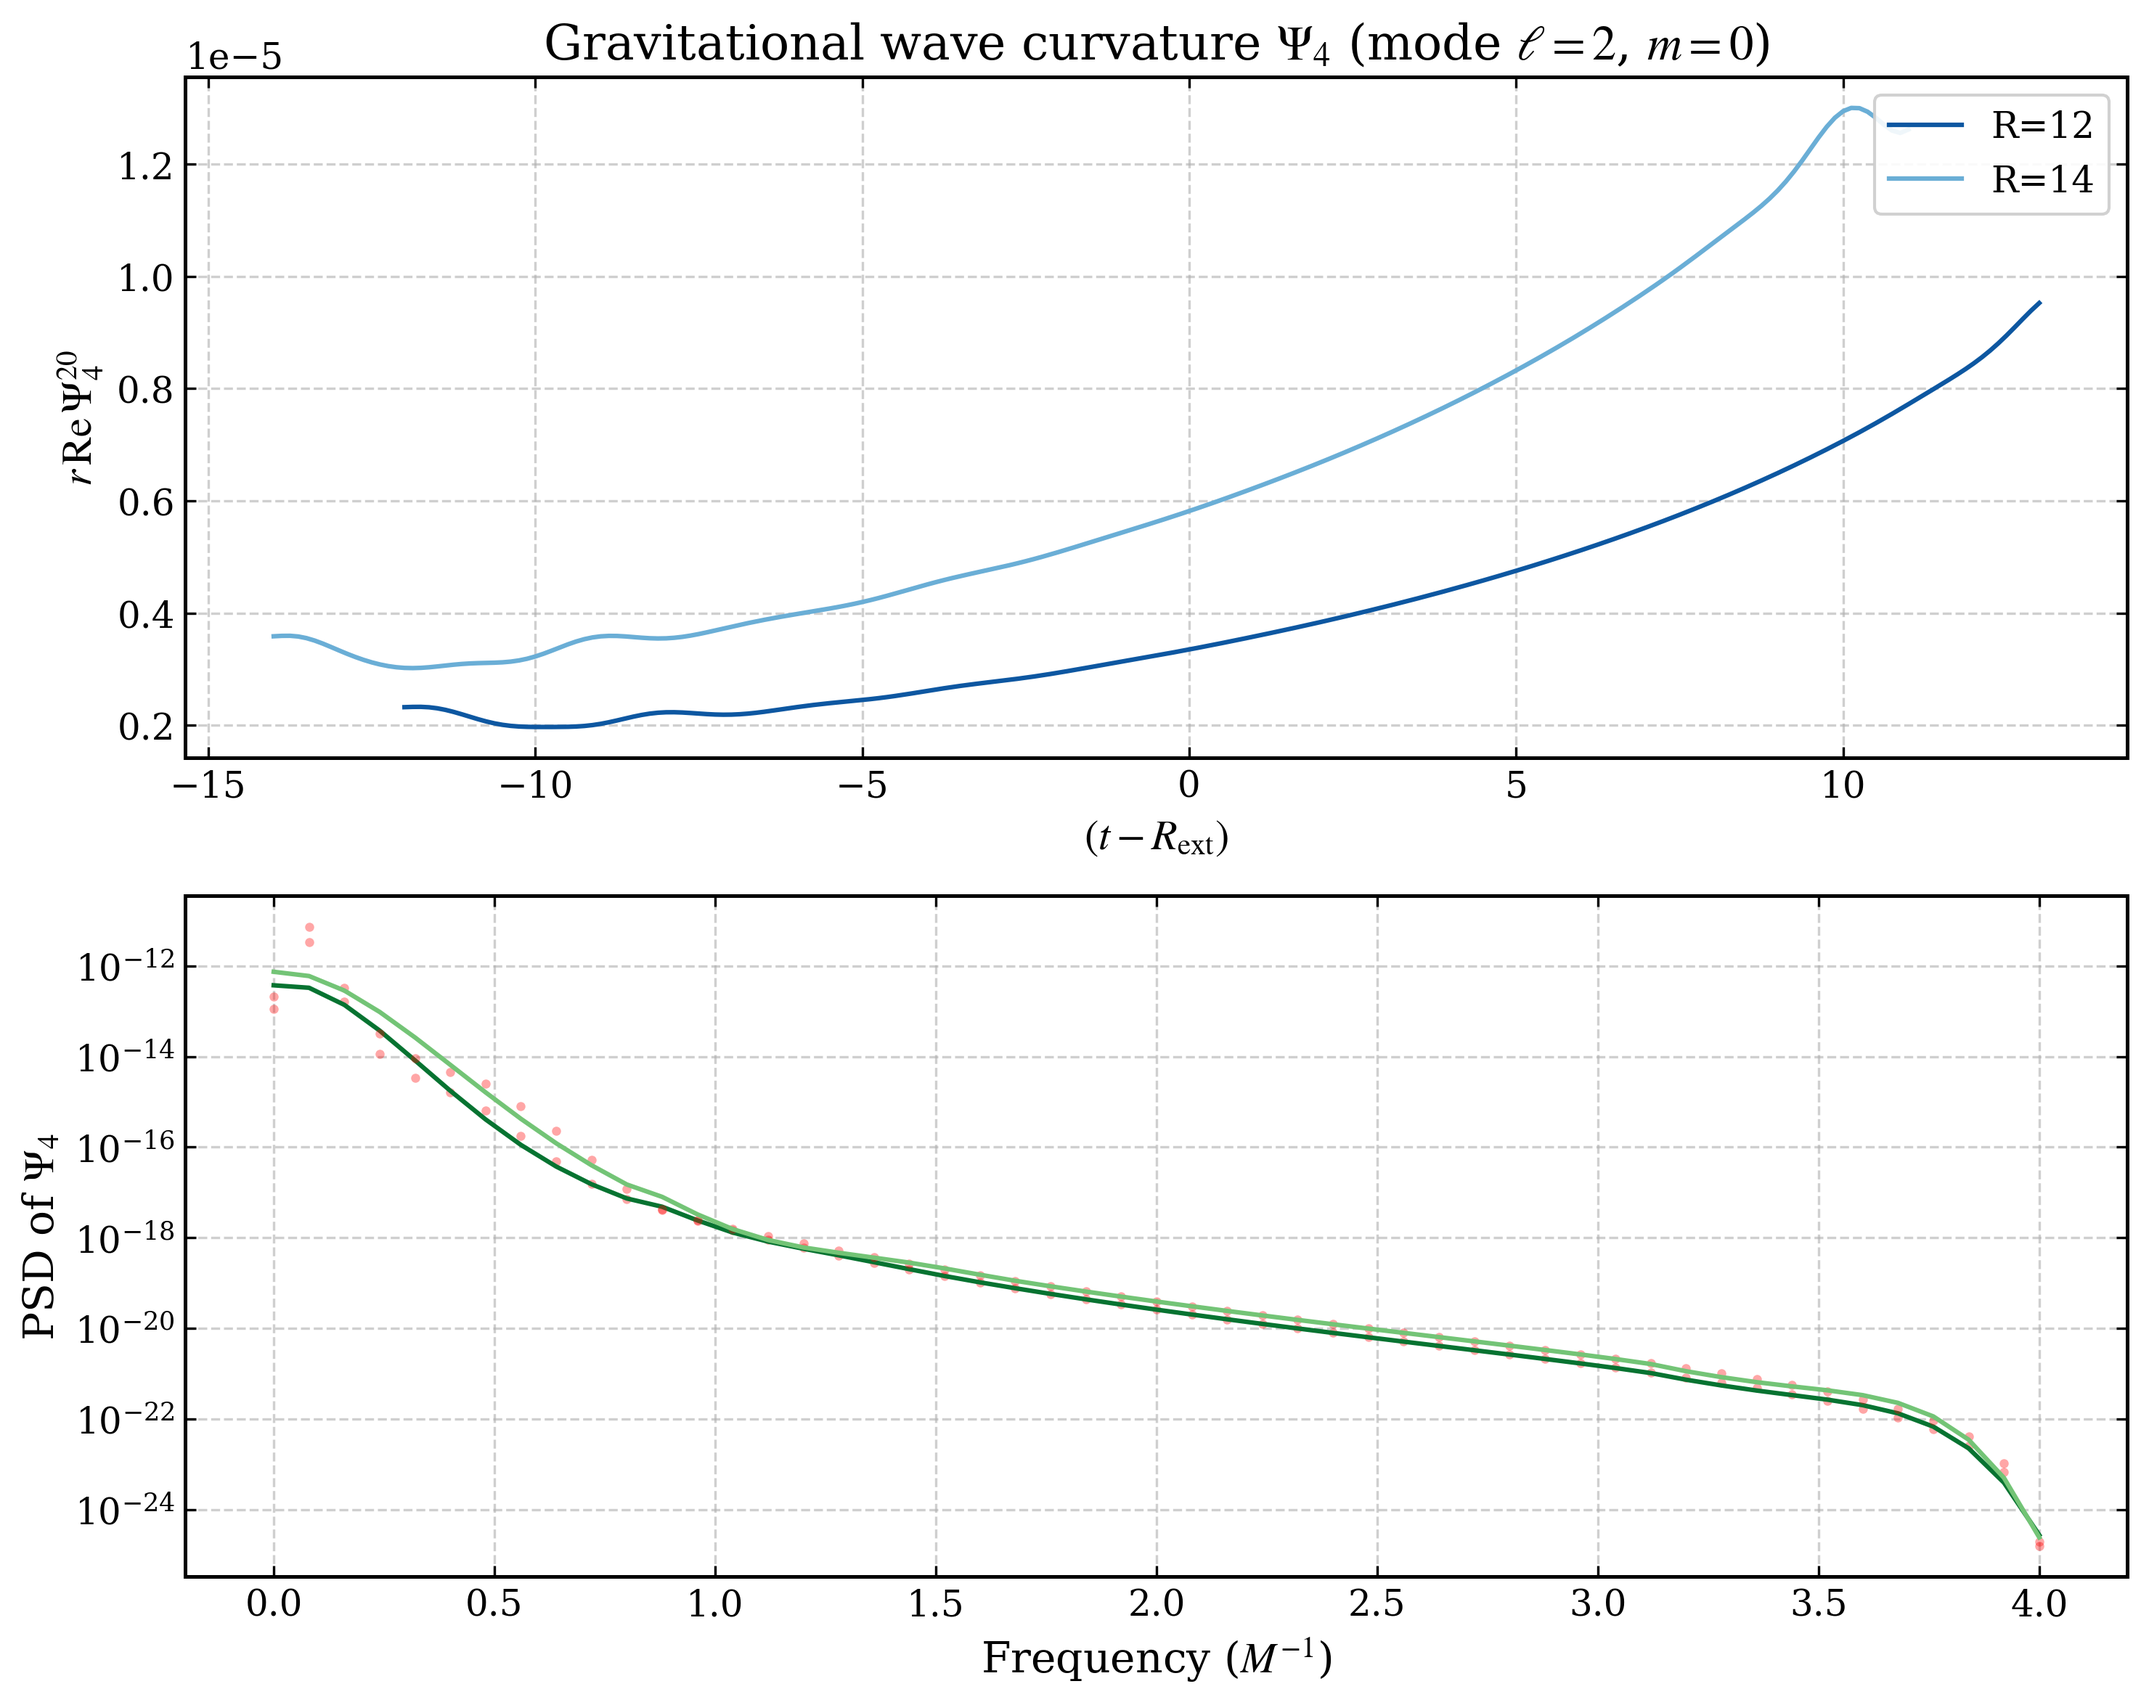
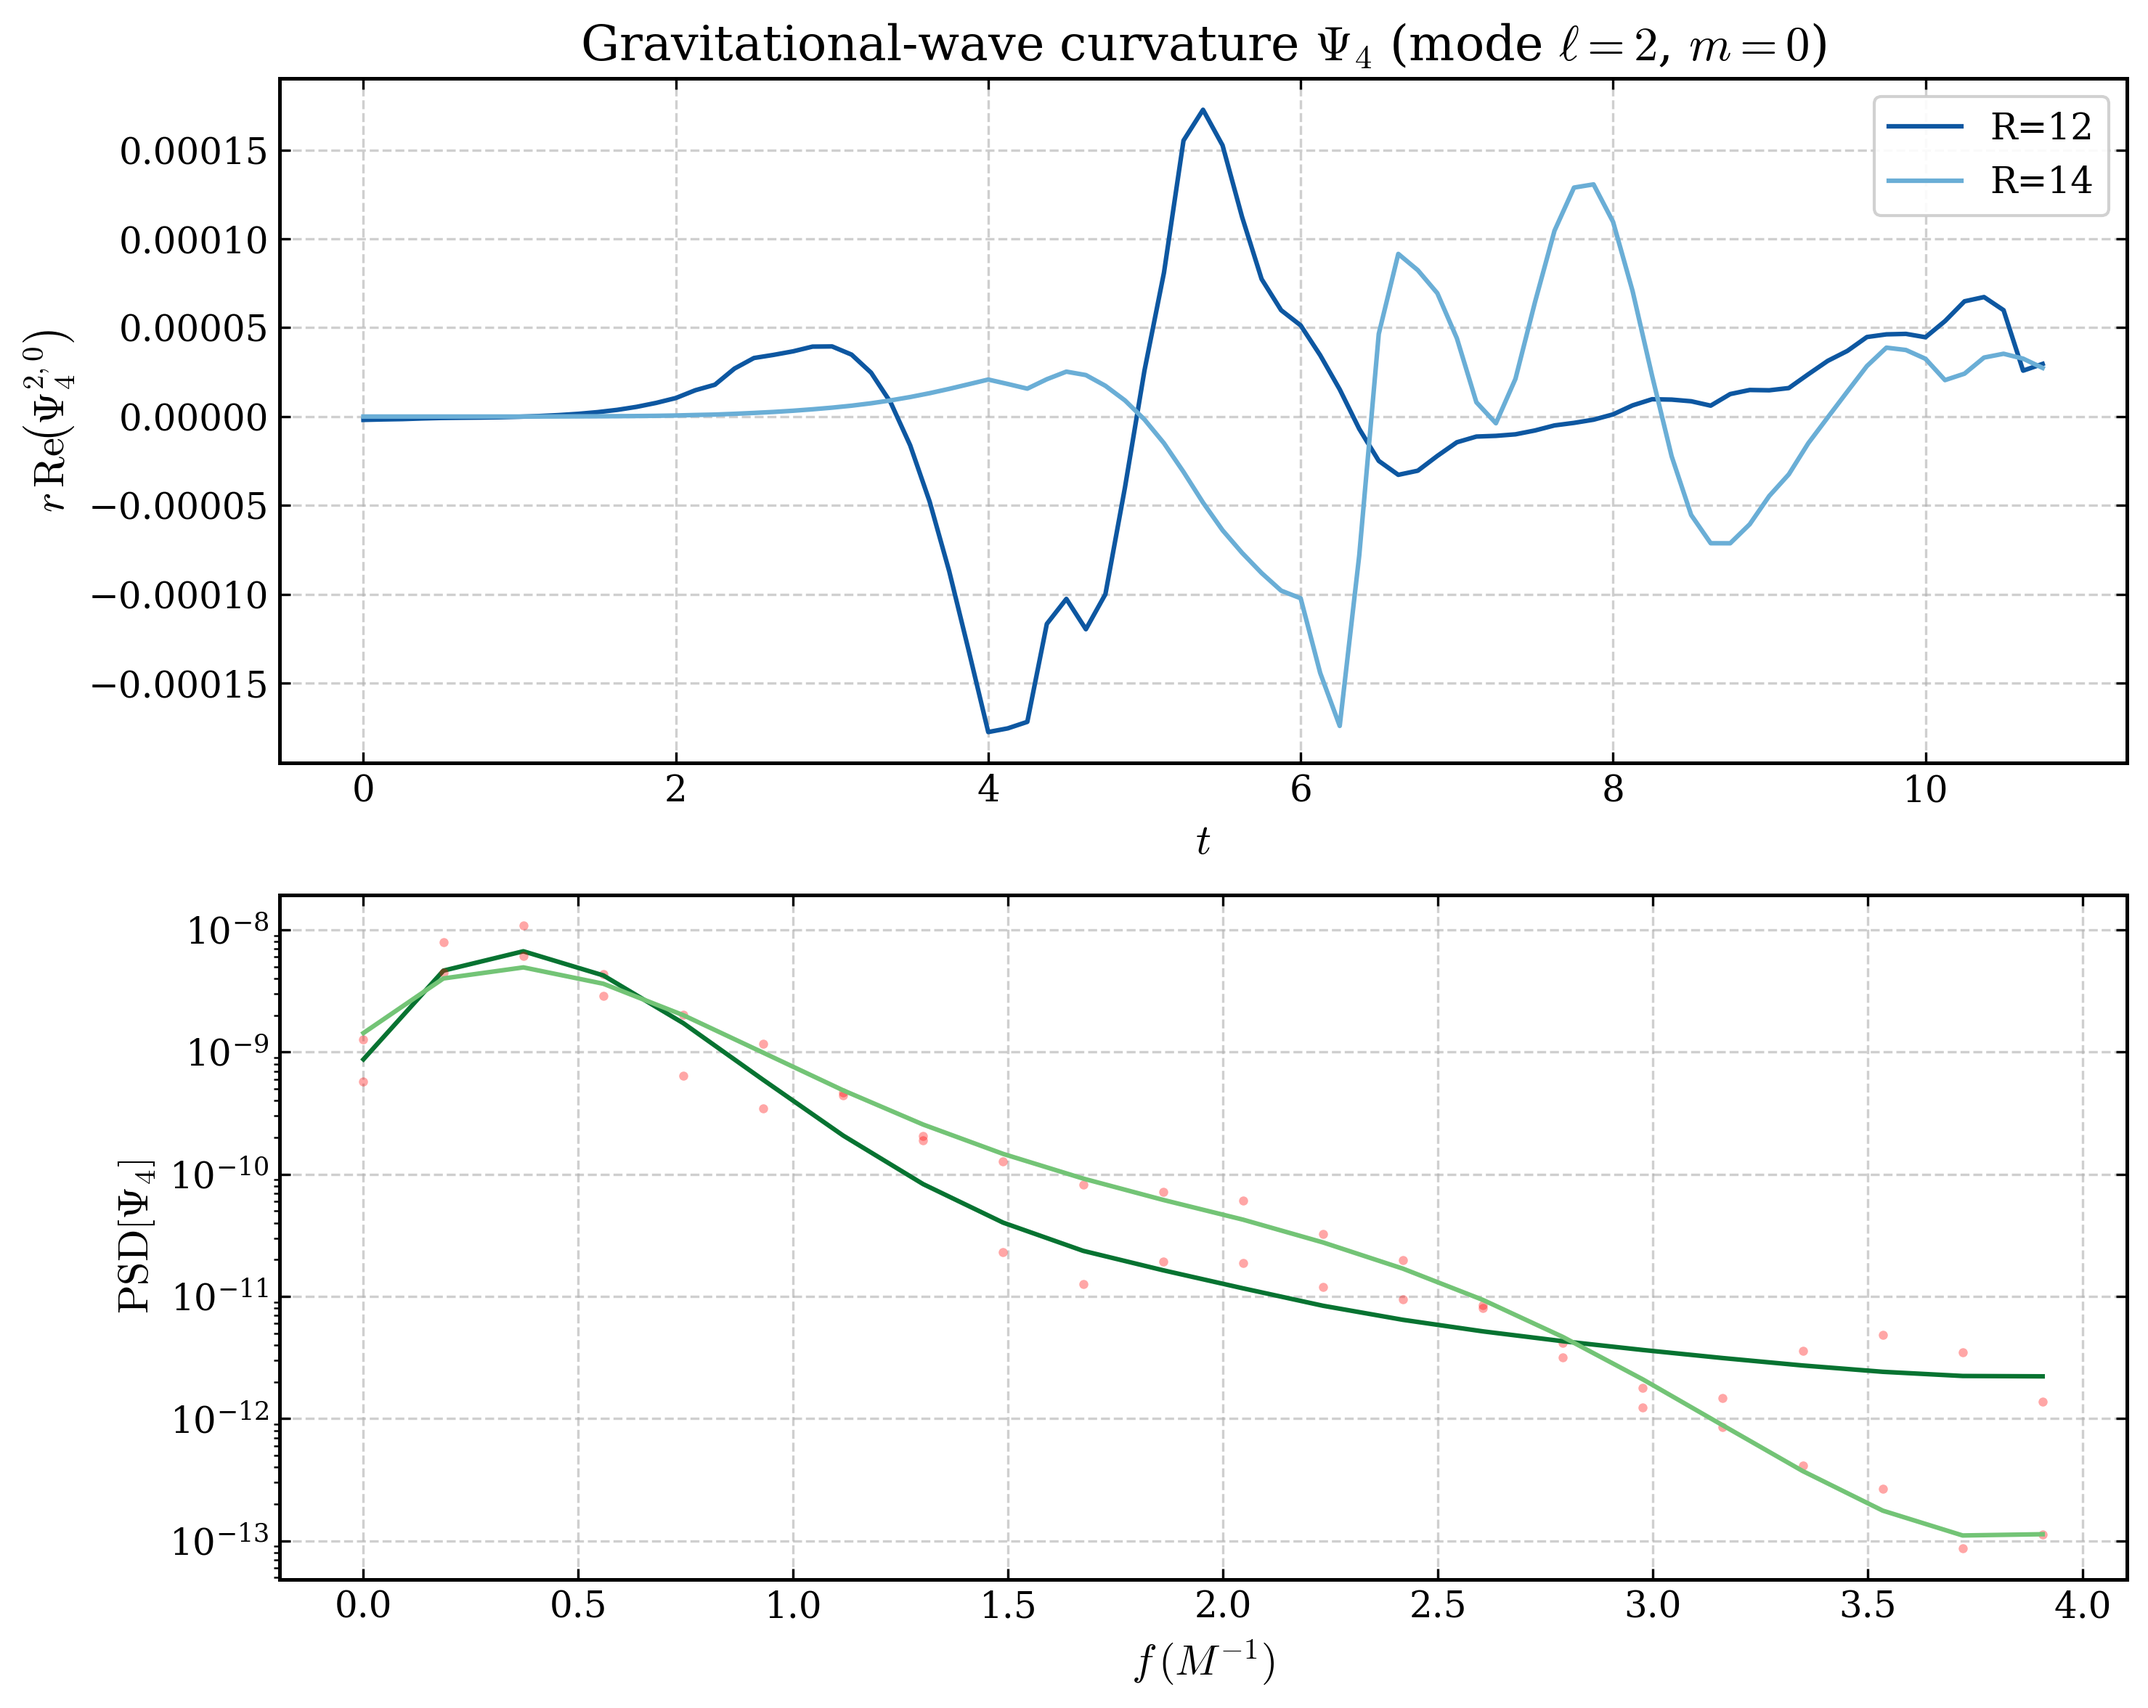
feat: plots style update

diff --git a/src/visualisation/visualize/__main__.py b/src/visualisation/visualize/__main__.py
@@ -24,8 +24,8 @@ def create_visualizations():
     parser.add_argument("--coord", type=float, default=None, help="Coordinate to slice at")
     parser.add_argument("--animate", action="store_true")
     parser.add_argument("--zoom", type=float, default=None, help="Zoom width in code units (default: full domain)")
-    parser.add_argument("--center", type=float, nargs=3, default=None, help="Center of the plot (x y z)")
-    parser.add_argument("--corner", action="store_true", help="Place the symmetry origin (0,0) at the bottom-left corner")
+    parser.add_argument("--center", type=float, nargs=3, default=None, help="Plot center (x y z). With --corner, this is treated as the symmetry origin (corner).")
+    parser.add_argument("--corner", action="store_true", help="Corner mode for symmetry-reduced domains (origin at bottom-left). Requires --zoom for deterministic extents.")
     parser.add_argument("--data", type=str, default=_DEFAULT_DATA)
     parser.add_argument("--out", type=str, default=_DEFAULT_OUT)
     parser.add_argument("--mpi", action="store_true")
@@ -37,17 +37,17 @@ def create_visualizations():
     use_mpi = size > 1 or (args.mpi and size > 1)
 
     configs = {
-        "chi":   {"zlim": (0.0, 1.0),  "cmap": "magma", "label": "Conformal Factor (chi)"},
-        "K":     {"zlim": (-0.1, 0.1), "cmap": "RdBu",  "label": "Trace of Extrinsic Curvature (K)"},
-        "Theta": {"zlim": (-0.005, 0.005), "cmap": "RdBu", "label": "Z4 Constraint (Theta)"},
-        "lapse": {"zlim": (0.0, 1.0),  "cmap": "viridis", "label": "Lapse (alpha)"},
-        "Ham":   {"zlim": (-0.1, 0.1), "cmap": "RdBu", "label": "Hamiltonian Constraint"},
-        "A11":   {"zlim": (-0.05, 0.05), "cmap": "PuOr", "label": "Extrinsic Curvature A11 (hxx)"},
-        "A12":   {"zlim": (-0.05, 0.05), "cmap": "PuOr", "label": "Extrinsic Curvature A12 (hxy)"},
-        "A22":   {"zlim": (-0.05, 0.05), "cmap": "PuOr", "label": "Extrinsic Curvature A22 (hyy)"},
-        "A33":   {"zlim": (-0.05, 0.05), "cmap": "PuOr", "label": "Extrinsic Curvature A33 (hzz)"},
-        "GW_Plus": {"zlim": (-5.0e-6, 5.0e-6), "cmap": "PiYG", "label": "GW Strain Proxy (+): A11 - A22"},
-        "GW_Cross": {"zlim": (-5.0e-6, 5.0e-6), "cmap": "PiYG", "label": "GW Strain Proxy (x): 2 * A12"},
+        "chi":   {"zlim": (0.0, 1.0),  "cmap": "magma", "label": r"Conformal Factor $\chi$"},
+        "K":     {"zlim": (-0.1, 0.1), "cmap": "RdBu",  "label": r"Trace of Extrinsic Curvature $K$"},
+        "Theta": {"zlim": (-0.005, 0.005), "cmap": "RdBu", "label": r"Z4 Constraint $\Theta$"},
+        "lapse": {"zlim": (0.0, 1.0),  "cmap": "viridis", "label": r"Lapse $\alpha$"},
+        "Ham":   {"zlim": (-0.1, 0.1), "cmap": "RdBu", "label": r"Hamiltonian Constraint $\mathcal{H}$"},
+        "A11":   {"zlim": (-0.05, 0.05), "cmap": "PuOr", "label": r"Extrinsic Curvature $\tilde{A}_{11}$"},
+        "A12":   {"zlim": (-0.05, 0.05), "cmap": "PuOr", "label": r"Extrinsic Curvature $\tilde{A}_{12}$"},
+        "A22":   {"zlim": (-0.05, 0.05), "cmap": "PuOr", "label": r"Extrinsic Curvature $\tilde{A}_{22}$"},
+        "A33":   {"zlim": (-0.05, 0.05), "cmap": "PuOr", "label": r"Extrinsic Curvature $\tilde{A}_{33}$"},
+        "GW_Plus": {"zlim": (-5.0e-6, 5.0e-6), "cmap": "PiYG", "label": r"GW Strain Proxy $h_+$"},
+        "GW_Cross": {"zlim": (-5.0e-6, 5.0e-6), "cmap": "PiYG", "label": r"GW Strain Proxy $h_\times$"},
     }
     cfg = configs.get(args.field, {"zlim": (None, None), "cmap": "viridis", "label": args.field})
 
@@ -122,20 +122,20 @@ def create_visualizations():
 
         physics_center = [mid_x, mid_y, z_center]
 
+        # Corner mode: treat --center as the symmetry origin (lower-left corner)
+        # and set the plot center to origin + zoom/2 in the slice plane.
         if args.corner and args.zoom is not None:
-            slice_plane_val = 0.0
-            if args.coord is not None:
-                slice_plane_val = args.coord
-
-            if args.axis == 'z':
-                physics_center = [args.zoom / 2.0, args.zoom / 2.0, slice_plane_val]
-            elif args.axis == 'y':
-                physics_center = [args.zoom / 2.0, slice_plane_val, args.zoom / 2.0]
-            elif args.axis == 'x':
-                physics_center = [slice_plane_val, args.zoom / 2.0, args.zoom / 2.0]
-
+            slice_plane_val = 0.0 if args.coord is None else float(args.coord)
+            origin = np.array(args.center, dtype=float) if args.center is not None else np.array(ds.domain_left_edge, dtype=float)
+            zoom = float(args.zoom)
+            if args.axis == "z":
+                physics_center = [origin[0] + zoom / 2.0, origin[1] + zoom / 2.0, slice_plane_val]
+            elif args.axis == "y":
+                physics_center = [origin[0] + zoom / 2.0, slice_plane_val, origin[2] + zoom / 2.0]
+            elif args.axis == "x":
+                physics_center = [slice_plane_val, origin[1] + zoom / 2.0, origin[2] + zoom / 2.0]
         elif args.center is not None:
-            physics_center = args.center
+            physics_center = list(args.center)
 
         # 3. Adjust based on slicing axis (--coord override)
         if args.axis == 'z':
@@ -149,6 +149,8 @@ def create_visualizations():
         # ----------------------------
 
         slc = yt.SlicePlot(ds, args.axis, ('boxlib', args.field), center=plot_center)
+        # Use physical (native) dataset coordinates on axes (no auto-centering to [-L/2, L/2]).
+        slc.set_origin("native")
         if args.zoom is not None:
             slc.set_width((args.zoom, "code_length"))
         slc.set_log(('boxlib', args.field), False)
@@ -171,7 +173,26 @@ def create_visualizations():
         slc.set_cmap(('boxlib', args.field), cfg["cmap"])
 
         coord_val = physics_center[{'x':0,'y':1,'z':2}[args.axis]]
-        slc.annotate_title(f"{cfg['label']} | T={ds.current_time:.2f} | {args.axis}={coord_val:.1f}")
+        slc.annotate_title(r"%s $\quad t=%.2f \quad %s=%.1f$" % (cfg["label"], float(ds.current_time), args.axis, coord_val))
+
+        # Force pure LaTeX axis labels (no "(code length)" units in label text).
+        axis_map = {"x": ("y", "z"), "y": ("z", "x"), "z": ("x", "y")}
+        xlabel_name, ylabel_name = axis_map[args.axis]
+        slc.set_xlabel(r"$%s$" % xlabel_name)
+        slc.set_ylabel(r"$%s$" % ylabel_name)
+        slc.set_colorbar_label(("boxlib", args.field), cfg["label"])
+
+        # Remove the duplicated "0" tick label at the symmetry origin corner.
+        # In corner mode the plot lower-left is (0,0); hide the y-axis 0 label
+        # so only one "0" is shown in the corner.
+        if args.corner:
+            slc.render()
+            plot = slc.plots[('boxlib', args.field)]
+            ax = plot.axes
+            ymin = float(ax.get_ylim()[0])
+            for tick, lbl in zip(ax.get_yticks(), ax.get_yticklabels()):
+                if abs(float(tick) - ymin) < 1.0e-9:
+                    lbl.set_visible(False)
 
         frame_idx = frame_counter if not use_mpi else i
         frame_name = f"frame_{args.axis}_{frame_idx:04d}.png"

diff --git a/src/visualisation/process_wave/consume_plotfiles.py b/src/visualisation/process_wave/consume_plotfiles.py
@@ -208,14 +208,18 @@ def _render_slice_frame(
     mid_y = float((ds.domain_right_edge[1] + ds.domain_left_edge[1]) / 2.0)
     physics_center = [mid_x, mid_y, 0.0]
 
+    # Corner mode: treat `center_xyz` as the symmetry origin (corner) and set
+    # plot center to origin + zoom/2 in the slice plane.
     if corner and zoom is not None:
         slice_plane_val = 0.0 if coord is None else float(coord)
+        origin = np.array(center_xyz, dtype=float) if center_xyz is not None else np.array(ds.domain_left_edge, dtype=float)
+        w = float(zoom)
         if axis == "z":
-            physics_center = [zoom / 2.0, zoom / 2.0, slice_plane_val]
+            physics_center = [origin[0] + w / 2.0, origin[1] + w / 2.0, slice_plane_val]
         elif axis == "y":
-            physics_center = [zoom / 2.0, slice_plane_val, zoom / 2.0]
+            physics_center = [origin[0] + w / 2.0, slice_plane_val, origin[2] + w / 2.0]
         elif axis == "x":
-            physics_center = [slice_plane_val, zoom / 2.0, zoom / 2.0]
+            physics_center = [slice_plane_val, origin[1] + w / 2.0, origin[2] + w / 2.0]
     elif center_xyz is not None:
         physics_center = [float(center_xyz[0]), float(center_xyz[1]), float(center_xyz[2])]
 
@@ -245,6 +249,8 @@ def _render_slice_frame(
     })
 
     slc = yt.SlicePlot(ds, axis, ("boxlib", field), center=plot_center)
+    # Use dataset-native coordinates (e.g. [0,40]) on axes for symmetry-reduced domains.
+    slc.set_origin("native")
     slc.set_axes_unit("code_length")
     if zoom is not None:
         slc.set_width((float(zoom), "code_length"))
@@ -279,6 +285,16 @@ def _render_slice_frame(
     slc.set_xlabel(r"$%s$" % xlabel_name)
     slc.set_ylabel(r"$%s$" % ylabel_name)
     slc.set_colorbar_label(("boxlib", field), cfg['label'])
+
+    # Remove the duplicated "0" tick label at the symmetry origin corner.
+    if corner:
+        slc.render()
+        plot = slc.plots[("boxlib", field)]
+        ax = plot.axes
+        ymin = float(ax.get_ylim()[0])
+        for tick, lbl in zip(ax.get_yticks(), ax.get_yticklabels()):
+            if abs(float(tick) - ymin) < 1.0e-9:
+                lbl.set_visible(False)
 
     output_dir = os.path.join(frames_out_dir, f"{field}_{axis}")
     frames_dir = os.path.join(output_dir, "frames")

diff --git a/src/visualisation/process_wave/plot_extracted_psi4.py b/src/visualisation/process_wave/plot_extracted_psi4.py
@@ -164,12 +164,12 @@ def main() -> None:
         if not radii:
             raise SystemExit(f"No requested radii found in file. Available: {radii_all}")
 
-    # Style matches constraints plot
+    # Publication-style LaTeX (mathtext) typography
     plt.rcParams.update(
         {
             "font.family": "serif",
-            "font.serif": ["DejaVu Serif", "Times New Roman", "serif"],
-            "mathtext.fontset": "stix",
+            "font.serif": ["Computer Modern Roman", "DejaVu Serif", "Times New Roman", "serif"],
+            "mathtext.fontset": "cm",
             "axes.labelsize": 14,
             "axes.titlesize": 16,
             "xtick.labelsize": 12,
@@ -213,16 +213,16 @@ def main() -> None:
 
         plotted_any = True
 
-    ax1.set_xlabel(r"$t$" if args.time_axis == "simulation" else r"$(t - R_{\mathrm{ext}})$")
-    ax1.set_ylabel(r"$r\,\mathrm{Re}\,\Psi_4^{20}$")
-    ax1.set_title(r"Gravitational wave curvature $\Psi_4$ (mode $\ell=2$, $m=0$)")
+    ax1.set_xlabel(r"$t$" if args.time_axis == "simulation" else r"$t - R_{\mathrm{ext}}$")
+    ax1.set_ylabel(r"$r\,\mathrm{Re}\!\left(\Psi_4^{2,0}\right)$")
+    ax1.set_title(r"Gravitational-wave curvature $\Psi_4$ (mode $\ell=2$, $m=0$)")
     if plotted_any:
         ax1.legend(loc="upper right", frameon=True, framealpha=0.9)
     ax1.grid(True, which="both", ls="--", alpha=0.6)
     ax1.tick_params(axis="both", which="major", direction="in", top=True, right=True)
 
-    ax2.set_xlabel(r"Frequency ($M^{-1}$)")
-    ax2.set_ylabel(r"PSD of $\Psi_4$")
+    ax2.set_xlabel(r"$f\,(M^{-1})$")
+    ax2.set_ylabel(r"$\mathrm{PSD}\left[\Psi_4\right]$")
     ax2.grid(True, which="major", ls="--", alpha=0.6)
     ax2.tick_params(axis="both", which="major", direction="in", top=True, right=True)
 
